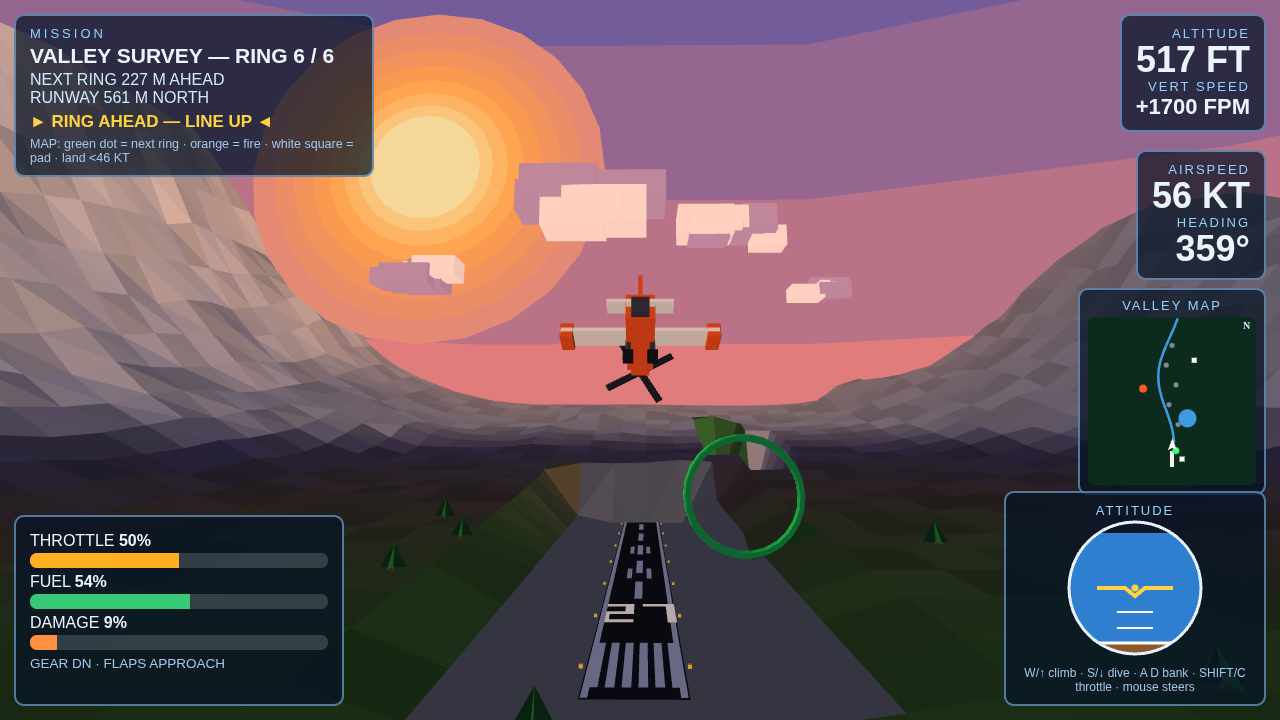
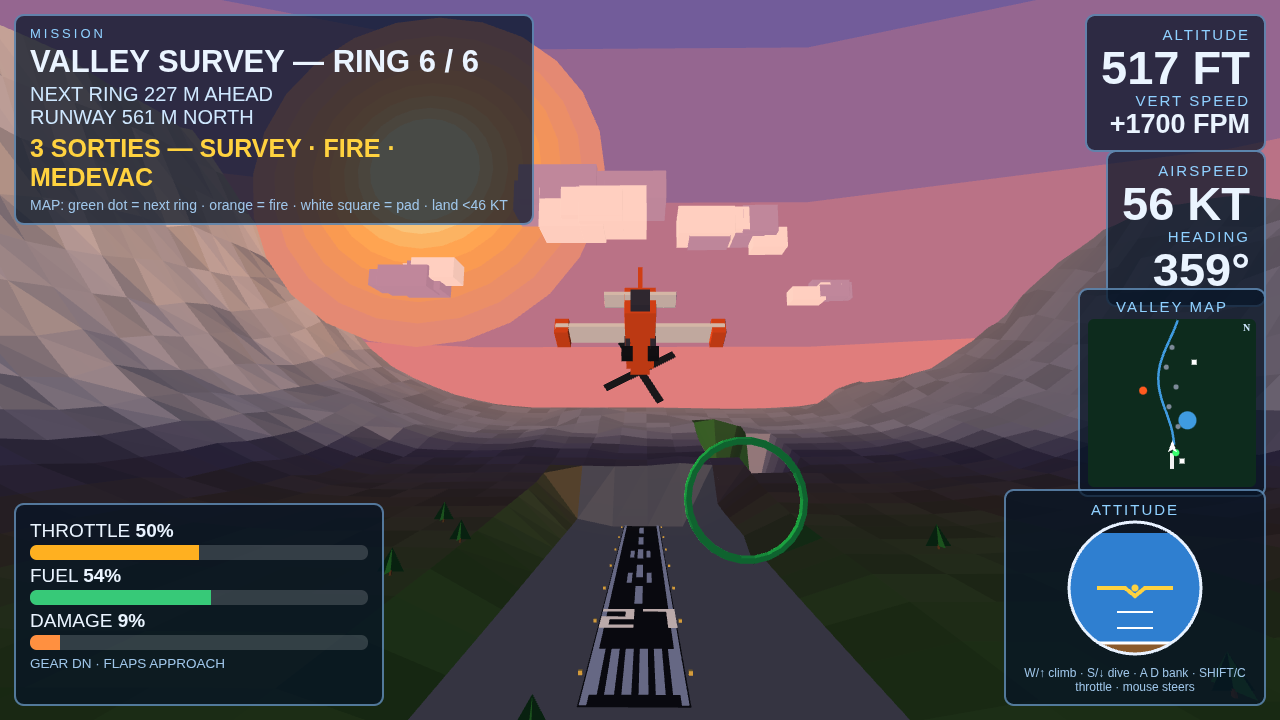
Stage E: poster cover — closer chase camera, enlarged HUD type for the contact sheet, one-line sortie callout

diff --git a/game/camera.js b/game/camera.js
@@ -4,15 +4,17 @@
 'use strict';
 const Camera = (() => {
   const pos=[0,130,260], look=[0,120,0];
-  function reset(p){ pos[0]=p[0]; pos[1]=p[1]+3.0; pos[2]=p[2]+10.0; }
+  let dist=10.0; // chase distance; the poster cover preset pulls it in closer
+  function setDist(d){ dist=d; }
+  function reset(p){ pos[0]=p[0]; pos[1]=p[1]+3.0; pos[2]=p[2]+dist; }
   function update(plane, dt){
     const back=[Math.sin(plane.heading),0,-Math.cos(plane.heading)];
-    const want=[plane.pos[0]-back[0]*10.0, plane.pos[1]+3.0+plane.pitch*8, plane.pos[2]-back[2]*10.0];
+    const want=[plane.pos[0]-back[0]*dist, plane.pos[1]+3.0+plane.pitch*8, plane.pos[2]-back[2]*dist];
     const k=1-Math.pow(0.0018, dt); // frame-rate independent smoothing
     for(let i=0;i<3;i++) pos[i]+=(want[i]-pos[i])*k;
     const fwd=[Math.sin(plane.heading)*Math.cos(plane.pitch), Math.sin(plane.pitch), -Math.cos(plane.heading)*Math.cos(plane.pitch)];
     look[0]=plane.pos[0]+fwd[0]*48; look[1]=plane.pos[1]+fwd[1]*48-13; look[2]=plane.pos[2]+fwd[2]*48;
     return {pos:[...pos], look:[...look], fov: 1.15 + Math.min(0.18, plane.speed*0.0009)};
   }
-  return {update, reset};
+  return {update, reset, setDist};
 })();

diff --git a/game/main.js b/game/main.js
@@ -173,7 +173,12 @@ function applyPreset(name){
   if (name==='cover'||name==='runway'||name==='results'||name==='title') Missions.select('survey');
   if (name==='cover'){ plane.pos=[6,140,-4780]; plane.heading=-0.01; plane.pitch=0.0; plane.speed=60; plane.throttle=0.50;
     for(let i=0;i<5;i++) Missions.rings[i].passed=true; Missions.state.ringsPassed=5;
-    Fuel.set(54); Damage.set(9); screen='fly'; }
+    Fuel.set(54); Damage.set(9); screen='fly';
+    // Poster treatment: closer chase camera (bigger plane), enlarged HUD
+    // type, and a one-line callout that names all three sortie systems.
+    document.body.classList.add('poster');
+    Camera.setDist(6.2);
+    window.__flightPoster='3 SORTIES — SURVEY · FIRE · MEDEVAC'; }
   else if (name==='runway'){ plane.pos=[6,36,-4995]; plane.heading=-0.03; plane.pitch=-0.06; plane.speed=47; plane.throttle=0.30;
     for(const r of Missions.rings) r.passed=true; Missions.state.ringsPassed=6; Fuel.set(38); Damage.set(18); screen='fly'; }
   else if (name==='results'){ applyPresetSilent(); screen='results';

diff --git a/game/style.css b/game/style.css
@@ -49,3 +49,16 @@
 #end-stats .medal-silver{color:#dfe8f2}
 #end-stats .medal-bronze{color:#e09a5c}
 #warnline{font-size:15px;font-weight:bold;color:#ff4444;margin-top:5px;min-height:18px}
+/* Poster cover (scene=cover only): type sized to survive the contact sheet —
+   at a 400 px-wide thumbnail the mission line still reads ~9 px and the big
+   readouts ~14 px, where the standard HUD would fall to ~6 px. */
+body.poster #mission-panel{width:520px}
+body.poster #mission{font-size:31px}
+body.poster #ringinfo,body.poster #distinfo{font-size:20px}
+body.poster #callout{font-size:25px}
+body.poster .legend{font-size:14px}
+body.poster .big{font-size:47px}
+body.poster .mid{font-size:27px}
+body.poster .label{font-size:15px}
+body.poster #sys-panel{font-size:19px;width:370px}
+body.poster #flash{font-size:52px}

diff --git a/game/instruments.js b/game/instruments.js
@@ -42,7 +42,7 @@ const Instruments = (() => {
       if (nr){ const d=Math.hypot(plane.pos[0]-nr.x, plane.pos[2]-nr.z);
         el.ringinfo.textContent='NEXT RING '+Math.round(d)+' M AHEAD';
         el.distinfo.textContent='RUNWAY '+runwayDist+' M NORTH';
-        el.callout.textContent = d<420 ? '► RING AHEAD — LINE UP ◄' : 'FOLLOW THE GREEN RING';
+        el.callout.textContent = window.__flightPoster || (d<420 ? '► RING AHEAD — LINE UP ◄' : 'FOLLOW THE GREEN RING');
       } else { el.ringinfo.textContent='ALL RINGS CLEAR — LAND NOW';
         el.distinfo.textContent='RUNWAY '+runwayDist+' M — SLOW TO <46 KT';
         el.callout.textContent='► RUNWAY AHEAD — GEAR DOWN, GENTLE SINK ◄'; }
